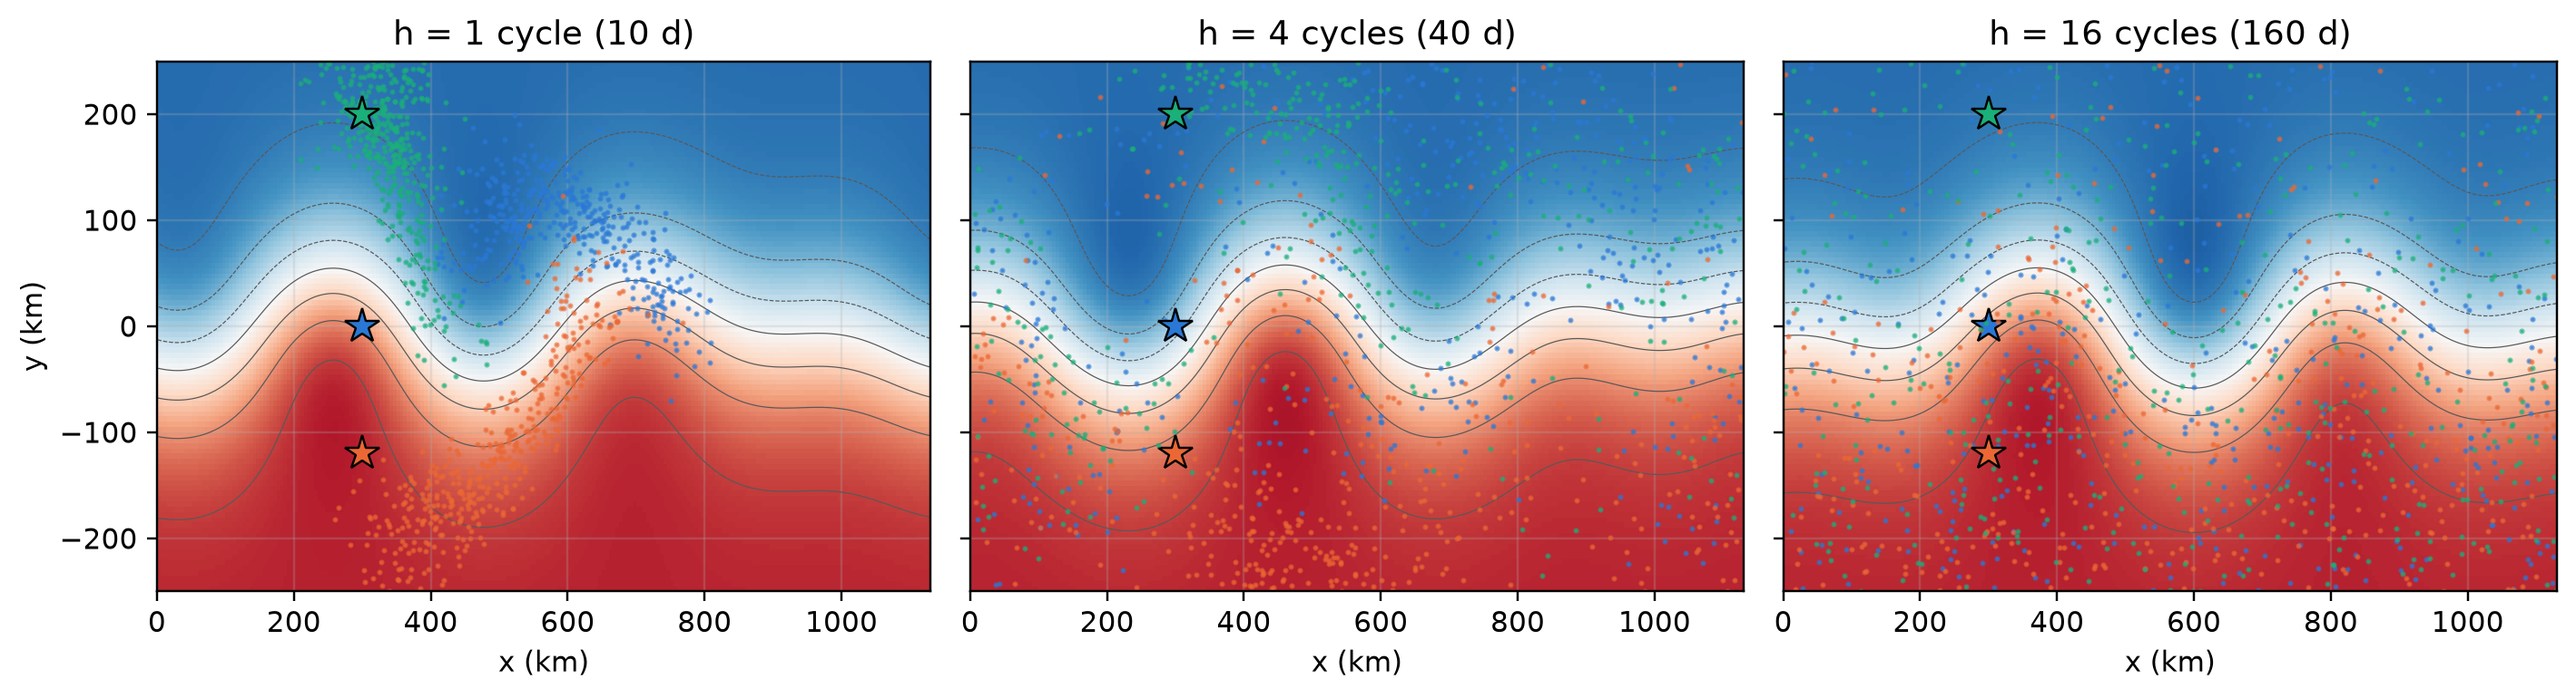
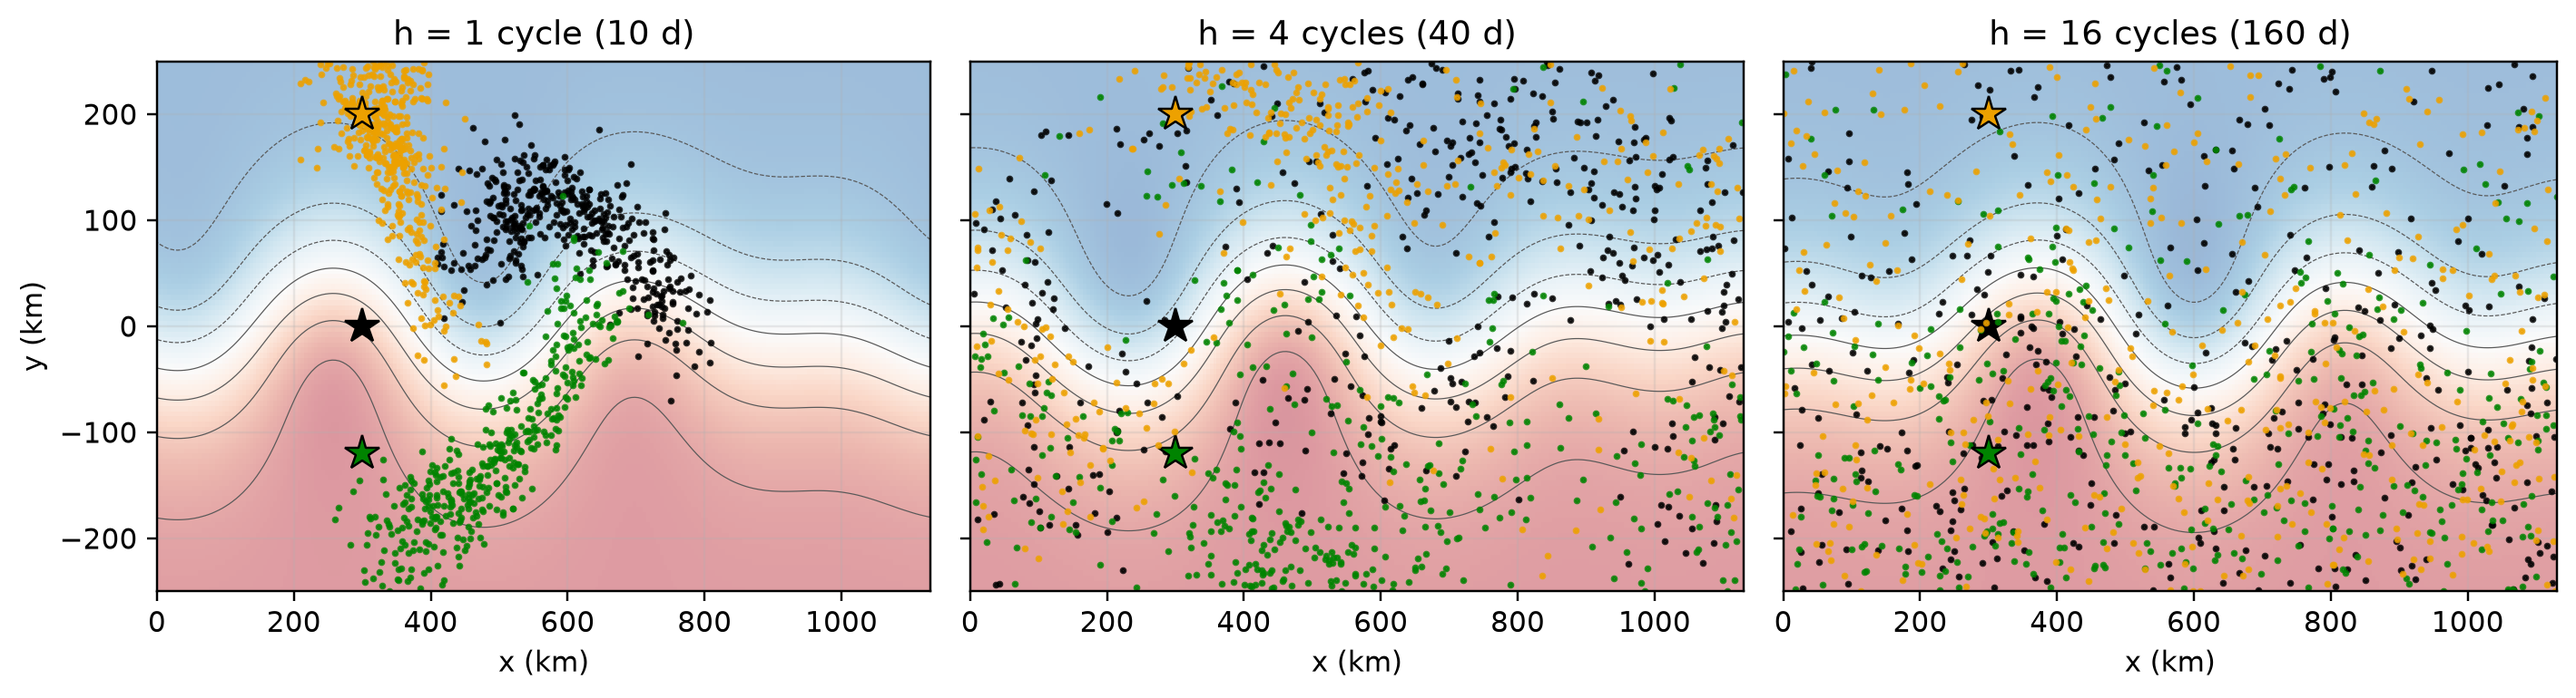
simex_intro: both cross-fit directions as maps, plus a summary chart
Team B maps / team A checks added alongside the original direction, with a
step chart and table from the simple average to the final DR estimate.
Cloud particles recolored (black, green, gold) over a faded field so they
read against red and blue; both reports re-rendered.

Claude-Session: https://claude.ai/code/session_01JX5XCkefp2nRPRboPsFMkC

diff --git a/code/simex.py b/code/simex.py
@@ -248,13 +248,13 @@ COL = dict(hajek="#2a78d6", dr="#eb6834", naive="#52514e", krige="#52514e")
 LAB = dict(naive="simple mean", krige="kriging", hajek="sequential Hajek", dr="cross-fit DR")
 SCEN_LAB = dict(correct="correct model", no_conv="model misses convergence", shifted="model eddies displaced",
                 K_small="noise too small (K/4)", K_large="noise too large (4K)")
-ANCHOR_COL = ("#2a78d6", "#eb6834", "#1baf7a")
+ANCHOR_COL = ("#000000", "#008300", "#eda100")
 
 
-def _field(ax, t, vmax=1.3):
+def _field(ax, t, vmax=1.3, alpha=1.0):
     Z = truth_grid(t).reshape(NX, NY).T
     ext = [0, LX, -LY, LY]
-    im = ax.imshow(Z, origin="lower", extent=ext, cmap="RdBu_r", vmin=-vmax, vmax=vmax, aspect="auto")
+    im = ax.imshow(Z, origin="lower", extent=ext, cmap="RdBu_r", vmin=-vmax, vmax=vmax, aspect="auto", alpha=alpha)
     ax.contour(Z, levels=np.linspace(-1.2, 1.2, 9), extent=ext, colors="0.35", linewidths=0.4)
     ax.set(xlabel="x (km)", ylabel="y (km)")
     return im
@@ -291,9 +291,9 @@ def plot_clouds(example=None, figsize=(13, 3.6)):
     a, t0, cl = example_clouds() if example is None else example
     fig, ax = plt.subplots(1, len(cl), figsize=figsize, sharey=True)
     for axi, (h, p) in zip(ax, cl.items()):
-        _field(axi, t0 + h * CYCLE)
+        _field(axi, t0 + h * CYCLE, alpha=0.45)
         for k in range(len(a)):
-            axi.plot(*p[k].T, ".", ms=2, color=ANCHOR_COL[k], alpha=0.6)
+            axi.plot(*p[k].T, ".", ms=3, color=ANCHOR_COL[k], alpha=0.8)
             axi.plot(*a[k], "*", ms=13, color=ANCHOR_COL[k], mec="k", mew=0.8)
         axi.set_title(f"h = {h} cycle{'s' if h > 1 else ''} ({int(h * CYCLE)} d)")
     for axi in ax[1:]:
@@ -470,20 +470,21 @@ def plot_rects(rects, pts, names, weights, warm_south=False, figsize=(5, 4.2)):
     return fig
 
 
-def dr_story(snap, kp=None):
-    """One cross-fit direction of the DR estimate on a snapshot: fold A (even floats) maps, fold B checks."""
+def dr_story(snap, kp=None, mapper=0):
+    """One cross-fit direction on a snapshot: team A = even floats, team B = odd; mapper 0 means A maps, B checks."""
     kp = krige_params() if kp is None else kp
     xy, z, parts = snap["xy"], snap["z"], snap["parts"]
-    a = np.arange(len(xy)) % 2 == 0
+    a = np.arange(len(xy)) % 2 == mapper
     b = ~a
     m = krige_point(xy[a], z[a], _GRID, kp)
     r = z[b] - krige_point(xy[a], z[a], xy[b], kp)
     lam = density_grid(parts[b])
     covered = lam * (2 * LX * LY) / b.sum() >= C_REL
     ix, iy = cell(xy[b])
-    w = np.where(covered[ix, iy], 1 / lam[ix, iy], 0.0)
+    w = np.zeros(len(ix))
+    w[covered[ix, iy]] = 1 / lam[ix, iy][covered[ix, iy]]
     share = w / w.sum()
-    out = dict(snap, a=a, b=b, map=m, map_mean=m.mean(), resid=r, lam_b=lam, covered=covered, share_b=share,
+    out = dict(snap, a=a, b=b, names=("AB", "BA")[mapper], marks=(("o", "^"), ("^", "o"))[mapper], map=m, map_mean=m.mean(), resid=r, lam_b=lam, covered=covered, share_b=share,
                cover=covered.mean(), corr_plain=r.mean(), corr_w=covered.mean() * (share @ r),
                truth_grid=truth_grid(snap["t"]))
     out["final"] = out["map_mean"] + out["corr_w"]
@@ -504,27 +505,28 @@ def plot_dr_story(st, figsize=(13, 7.2), zmax=1.3, rmax=0.8):
     im = img(ax[0], st["truth_grid"], **zk)
     ax[0].set_title(f"1. True field (box mean {st['truth']:+.2f})")
     fig.colorbar(im, ax=ax[0], pad=0.01, label="Z")
-    ax[1].scatter(*xa.T, c=za, marker="o", s=40, **zk, **pk, label="team A (builds map)")
-    sc = ax[1].scatter(*xb.T, c=zb, marker="^", s=50, **zk, **pk, label="team B (checks map)")
+    (na, nb), (ma, mb) = st["names"], st["marks"]
+    ax[1].scatter(*xa.T, c=za, marker=ma, s=45, **zk, **pk, label=f"team {na} (builds map)")
+    sc = ax[1].scatter(*xb.T, c=zb, marker=mb, s=45, **zk, **pk, label=f"team {nb} (checks map)")
     ax[1].set_title(f"2. Observations (simple average {st['naive']:+.2f})")
     ax[1].legend(loc="upper right", fontsize=7, framealpha=0.9)
     fig.colorbar(sc, ax=ax[1], pad=0.01, label="Z")
     rel = st["lam_b"] * (2 * LX * LY) / st["b"].sum()
     im = img(ax[2], np.log10(np.maximum(rel, 1e-3)).ravel(), cmap="Blues", vmin=-2, vmax=1)
     ax[2].contour(rel.T, levels=[C_REL], extent=ext, colors="k", linewidths=1.2)
-    ax[2].scatter(*xb.T, marker="^", s=40, c=COL["dr"], **pk)
-    ax[2].set_title("3. Team B's possible locations (stacked clouds)")
+    ax[2].scatter(*xb.T, marker=mb, s=40, c=COL["dr"], **pk)
+    ax[2].set_title(f"3. Team {nb}'s possible locations (stacked clouds)")
     fig.colorbar(im, ax=ax[2], pad=0.01, label="log10 density / uniform")
     im = img(ax[3], st["map"], **zk)
-    ax[3].scatter(*xa.T, c=za, marker="o", s=40, **zk, **pk)
-    ax[3].set_title(f"4. Kriging map from team A (mean {st['map_mean']:+.2f})")
+    ax[3].scatter(*xa.T, c=za, marker=ma, s=40, **zk, **pk)
+    ax[3].set_title(f"4. Kriging map from team {na} (mean {st['map_mean']:+.2f})")
     fig.colorbar(im, ax=ax[3], pad=0.01, label="Z")
     im = img(ax[4], st["truth_grid"] - st["map"], alpha=0.45, **rk)
-    ax[4].scatter(*xb.T, c=r, marker="^", s=50, **rk, **pk)
-    ax[4].set_title(f"5. Residuals at team B (plain average {st['corr_plain']:+.2f})")
+    ax[4].scatter(*xb.T, c=r, marker=mb, s=50, **rk, **pk)
+    ax[4].set_title(f"5. Residuals at team {nb} (plain average {st['corr_plain']:+.2f})")
     fig.colorbar(im, ax=ax[4], pad=0.01, label="measured - map")
     img(ax[5], st["truth_grid"] - st["map"], alpha=0.2, **rk)
-    ax[5].scatter(*xb.T, c=r, marker="^", s=1500 * st["share_b"] + 2, **rk, **pk)
+    ax[5].scatter(*xb.T, c=r, marker=mb, s=1500 * st["share_b"] + 2, **rk, **pk)
     ax[5].set_title(f"6. Reweighted residuals (correction {st['corr_w']:+.2f})")
     fig.colorbar(im, ax=ax[5], pad=0.01, label="measured - map")
     for k in (0, 3):
@@ -533,5 +535,29 @@ def plot_dr_story(st, figsize=(13, 7.2), zmax=1.3, rmax=0.8):
         ax[k].set_xlabel("x (km)")
     for a_ in ax:
         a_.grid(False)
+    fig.tight_layout()
+    return fig
+
+
+def plot_dr_summary(st1, st2, figsize=(9, 3.6)):
+    """From the simple average to the final DR estimate: each direction's map, then map + weighted check."""
+    rows = [("simple average", st1["naive"], None),
+            (f"team {st1['names'][0]} map", st1["map_mean"], None),
+            (f"team {st1['names'][0]} map + team {st1['names'][1]} check", st1["final"], st1["map_mean"]),
+            (f"team {st2['names'][0]} map", st2["map_mean"], None),
+            (f"team {st2['names'][0]} map + team {st2['names'][1]} check", st2["final"], st2["map_mean"]),
+            ("final: average of the two", 0.5 * (st1["final"] + st2["final"]), None)]
+    fig, ax = plt.subplots(figsize=figsize)
+    ax.axvline(st1["truth"], color="k", lw=1)
+    ax.text(st1["truth"], -0.7, " truth", fontsize=9, va="center")
+    for i, (lab, v, frm) in enumerate(rows):
+        if frm is not None:
+            ax.annotate("", (v, i), (frm, i), arrowprops=dict(arrowstyle="->", color=COL["dr"], lw=1.5))
+        ax.plot(v, i, "o", ms=9, color=COL["dr"] if "check" in lab or "final" in lab else COL["naive"])
+        ax.text(v, i - 0.32, f"{v:+.2f}", ha="center", fontsize=9)
+    ax.set_yticks(range(len(rows)), [r[0] for r in rows])
+    ax.set_ylim(len(rows) - 0.5, -1)
+    ax.set_xlabel("box-mean estimate (truth = %.2f)" % st1["truth"])
+    ax.grid(axis="y", visible=False)
     fig.tight_layout()
     return fig
